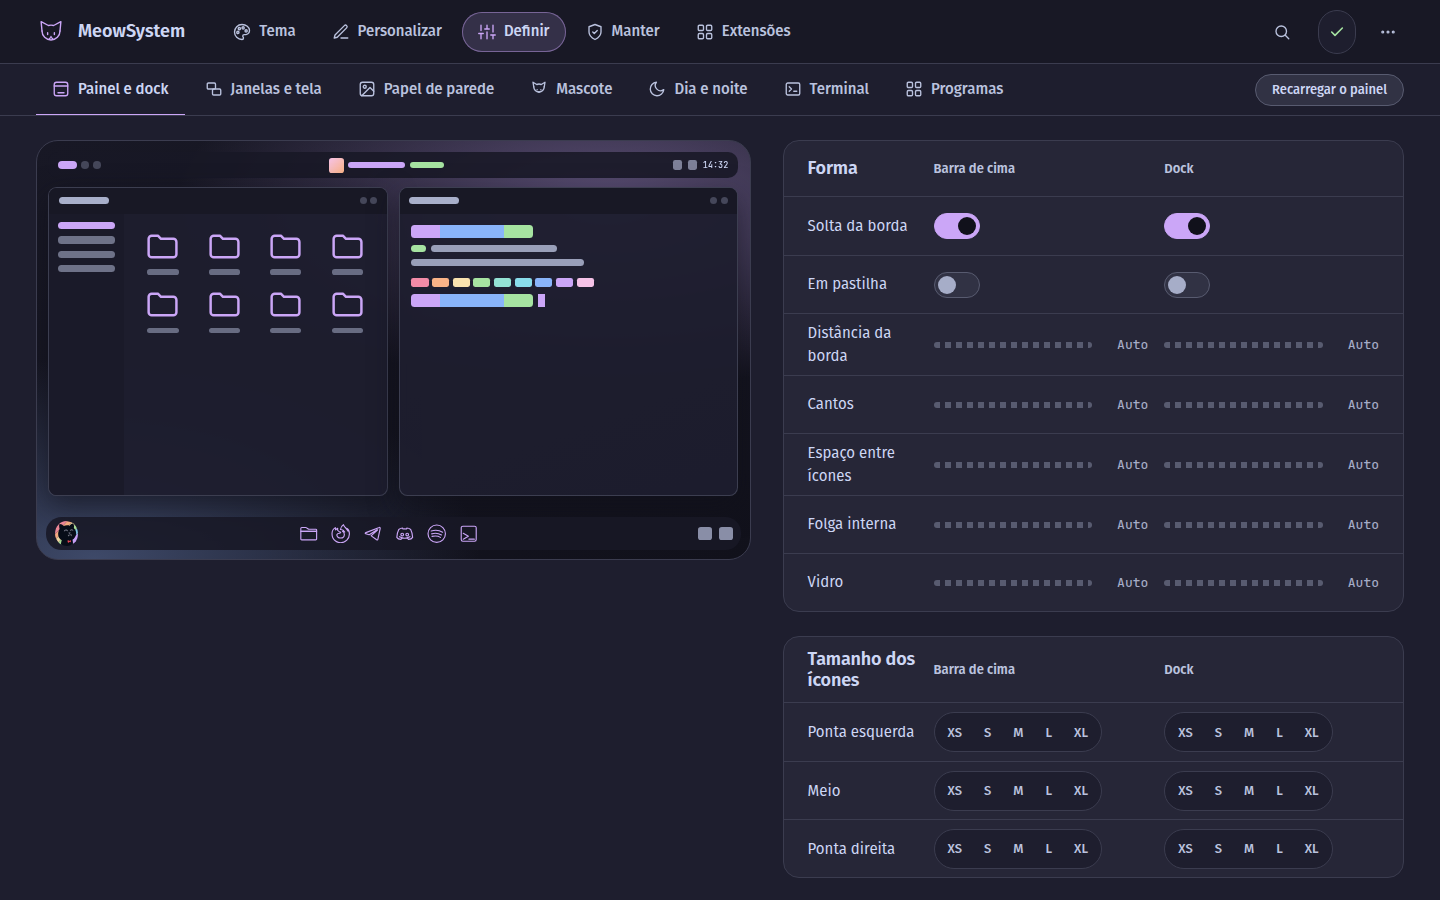
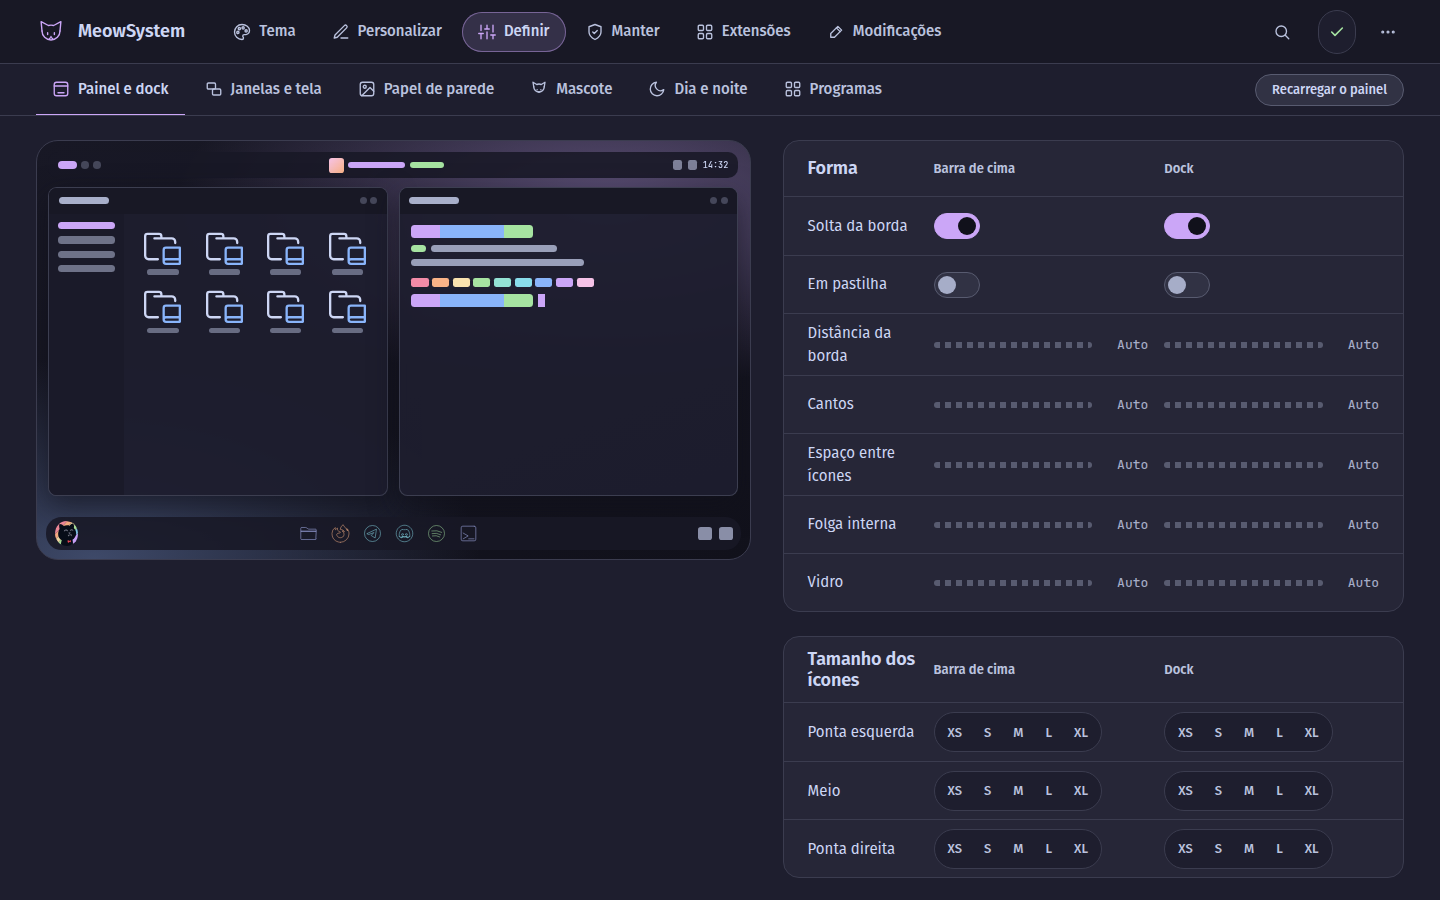
docs(readme): a porta Modificações no README, com a captura dos cartões

diff --git a/scripts/readme.py b/scripts/readme.py
@@ -391,6 +391,8 @@ def capturas():
             for ident, _nome in lista:
                 pag.click(f'[data-controle="porta:{ident}"]')
                 pag.evaluate(ASSENTAR, [700, 20000])
+                pag.wait_for_function("() => !document.querySelector('#conteudo [aria-busy=\"true\"]')", timeout=300000)
+                pag.evaluate(ASSENTAR, [700, 20000])
                 pag.mouse.move(0, 0)
                 pag.wait_for_timeout(300)
                 novo = os.path.join(brinquedo, ident + ".png")

diff --git a/README.en.md b/README.en.md
@@ -42,7 +42,7 @@ compiler and libraries for the applets, `fastfetch` and `starship`. To rehearse 
 
 ## The panel
 
-`meow abrir`, or the MeowSystem icon in the launcher. 126 settings and 70 actions behind five doors (the panel speaks Portuguese):
+`meow abrir`, or the MeowSystem icon in the launcher. 126 settings and 73 actions behind six doors (the panel speaks Portuguese):
 
 <table>
 <tr>
@@ -50,11 +50,12 @@ compiler and libraries for the applets, `fastfetch` and `starship`. To rehearse 
 <td width="50%"><img src="docs/capturas/readme/criar.png" alt="The Personalizar door of the panel"><br><b>Personalizar</b>: your own pack, step by step: colors, icons, wallpaper, sounds, and download the theme.</td>
 </tr>
 <tr>
-<td width="50%"><img src="docs/capturas/readme/ajustes.png" alt="The Definir door of the panel"><br><b>Definir</b>: panel and dock, windows, wallpaper, mascot, day and night, terminal and programs.</td>
+<td width="50%"><img src="docs/capturas/readme/ajustes.png" alt="The Definir door of the panel"><br><b>Definir</b>: panel and dock, windows, wallpaper, mascot, day and night and programs.</td>
 <td width="50%"><img src="docs/capturas/readme/cuidar.png" alt="The Manter door of the panel"><br><b>Manter</b>: the doctor and its fix button, pending items, and settings to carry to another machine.</td>
 </tr>
 <tr>
 <td width="50%"><img src="docs/capturas/readme/extensoes.png" alt="The Extensões door of the panel"><br><b>Extensões</b>: the house applets and your own: install, update, put on the panel, and the compositor builds.</td>
+<td width="50%"><img src="docs/capturas/readme/modificacoes.png" alt="The Modificações door of the panel"><br><b>Modificações</b>: one card per program that takes the theme: turn on, turn off, put back in place, and each one's fixes.</td>
 </tr>
 </table>
 

diff --git a/README.md b/README.md
@@ -42,7 +42,7 @@ compilador e as bibliotecas dos applets, o `fastfetch` e o `starship`. Para ensa
 
 ## O painel
 
-`meow abrir`, ou o ícone MeowSystem no lançador. 126 ajustes e 73 ações em cinco portas:
+`meow abrir`, ou o ícone MeowSystem no lançador. 126 ajustes e 73 ações em seis portas:
 
 <table>
 <tr>
@@ -50,11 +50,12 @@ compilador e as bibliotecas dos applets, o `fastfetch` e o `starship`. Para ensa
 <td width="50%"><img src="docs/capturas/readme/criar.png" alt="A porta Personalizar do painel"><br><b>Personalizar</b>: um pack seu, em passos: cores, ícones, papel de parede, sons, e baixar o tema.</td>
 </tr>
 <tr>
-<td width="50%"><img src="docs/capturas/readme/ajustes.png" alt="A porta Definir do painel"><br><b>Definir</b>: painel e dock, janelas, papel de parede, mascote, dia e noite, terminal e programas.</td>
+<td width="50%"><img src="docs/capturas/readme/ajustes.png" alt="A porta Definir do painel"><br><b>Definir</b>: painel e dock, janelas, papel de parede, mascote, dia e noite e programas.</td>
 <td width="50%"><img src="docs/capturas/readme/cuidar.png" alt="A porta Manter do painel"><br><b>Manter</b>: o doctor e o Consertar, as pendências, e os ajustes para levar a outra máquina.</td>
 </tr>
 <tr>
 <td width="50%"><img src="docs/capturas/readme/extensoes.png" alt="A porta Extensões do painel"><br><b>Extensões</b>: os applets da casa e os de quem usa: instalar, atualizar, pôr no painel, e os builds do compositor.</td>
+<td width="50%"><img src="docs/capturas/readme/modificacoes.png" alt="A porta Modificações do painel"><br><b>Modificações</b>: um cartão por programa que recebe o tema: ligar, desligar, pôr no lugar, e as correções de cada um.</td>
 </tr>
 </table>
 
